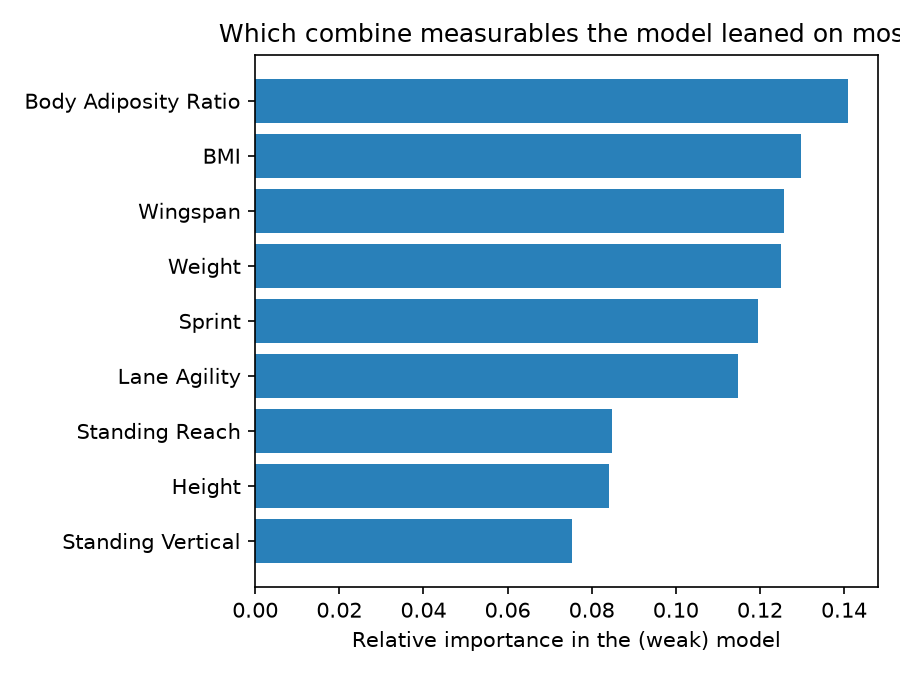
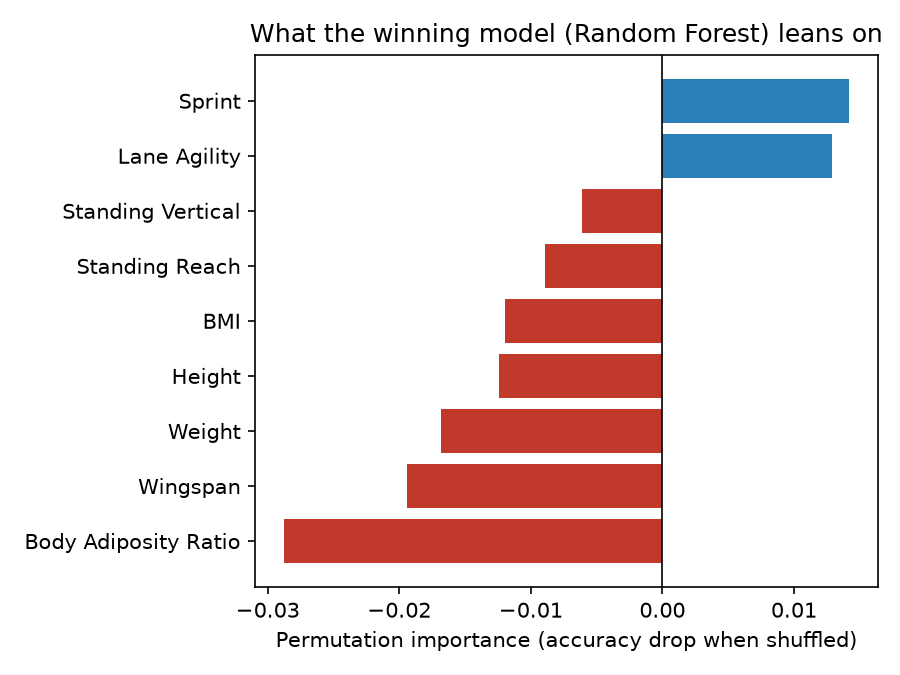
Compare 3 tuned model families instead of one, to stress-test the null result
Trains Random Forest, Logistic Regression, and Gradient Boosting, each
hyperparameter-tuned with GridSearchCV (5-fold CV), and deploys whichever
wins by cross-validated accuracy. None beat the majority-class baseline,
ruling out "wrong model" or "needed more tuning" as an explanation for
the weak result reported earlier.

Also switches feature importance from RandomForest's built-in
feature_importances_ (tree-only, doesn't generalize across model types)
to permutation importance, which works for any estimator. Several
features now show negative importance -- shuffling them improves
accuracy slightly, reinforcing that the model isn't learning real
signal from them.

Fixed a bug caught while wiring this up: the report was citing two
different "CV accuracy" numbers for the same model (the grid search's
best_score_ on the train split vs. a separate cross_val_score() run on
the full train+test data, which also let held-out test rows leak into
CV folds). Now derived once, consistently, from the winning grid
search's own best fold scores.

diff --git a/backend/generate_report.py b/backend/generate_report.py
@@ -38,18 +38,27 @@ def correlation_table(df: pd.DataFrame, outcome: str) -> pd.DataFrame:
     return pd.DataFrame(rows).sort_values("r", key=lambda s: s.abs(), ascending=False)
 
 
-def plot_accuracy_bar(metrics: dict):
-    labels = ["Model (Random Forest)", "Baseline (always guess\nmost common outcome)"]
-    values = [metrics["test_accuracy"], metrics["baseline_accuracy"]]
-    fig, ax = plt.subplots(figsize=(5, 4))
-    bars = ax.bar(labels, values, color=["#2980b9", "#7f8c8d"])
-    ax.set_ylabel("Accuracy on held-out test players")
+def plot_model_comparison(metrics: dict):
+    comparison = metrics["model_comparison"]
+    names = [m["name"] for m in comparison]
+    cv_acc = [m["cv_accuracy"] for m in comparison]
+    test_acc = [m["test_accuracy"] for m in comparison]
+
+    x = np.arange(len(names))
+    width = 0.35
+    fig, ax = plt.subplots(figsize=(7, 4.5))
+    ax.bar(x - width / 2, cv_acc, width, label="Tuned 5-fold CV accuracy", color="#2980b9")
+    ax.bar(x + width / 2, test_acc, width, label="Held-out test accuracy", color="#5da8d6")
+    ax.axhline(metrics["baseline_accuracy"], color="#7f8c8d", linestyle="--", linewidth=1.5,
+               label=f"Baseline ({metrics['baseline_accuracy']:.0%}, always guess majority class)")
+    ax.set_xticks(x)
+    ax.set_xticklabels(names)
+    ax.set_ylabel("Accuracy")
     ax.set_ylim(0, 1)
-    ax.set_title("Predicting outcome tier from combine measurables")
-    for b, v in zip(bars, values):
-        ax.text(b.get_x() + b.get_width() / 2, v + 0.02, f"{v:.0%}", ha="center")
+    ax.set_title("Three tuned model families, none beat the baseline")
+    ax.legend(fontsize=9, loc="upper right")
     fig.tight_layout()
-    fig.savefig(f"{FIG_DIR}/accuracy_vs_baseline.png", dpi=150)
+    fig.savefig(f"{FIG_DIR}/model_comparison.png", dpi=150)
     plt.close(fig)
 
 
@@ -57,10 +66,12 @@ def plot_feature_importance(metrics: dict):
     importances = metrics["feature_importances"]
     labels = [FEATURE_LABELS[k] for k in importances.keys()]
     values = list(importances.values())
+    colors = ["#2980b9" if v >= 0 else "#c0392b" for v in values]
     fig, ax = plt.subplots(figsize=(6, 4.5))
-    ax.barh(labels[::-1], values[::-1], color="#2980b9")
-    ax.set_xlabel("Relative importance in the (weak) model")
-    ax.set_title("Which combine measurables the model leaned on most")
+    ax.barh(labels[::-1], values[::-1], color=colors[::-1])
+    ax.axvline(0, color="black", linewidth=0.8)
+    ax.set_xlabel("Permutation importance (accuracy drop when shuffled)")
+    ax.set_title(f"What the winning model ({metrics['winning_model']}) leans on")
     fig.tight_layout()
     fig.savefig(f"{FIG_DIR}/feature_importance.png", dpi=150)
     plt.close(fig)
@@ -109,7 +120,7 @@ def main():
     corr_vorp = correlation_table(df, "VORP")
     corr_ppg = correlation_table(df, "PPG")
 
-    plot_accuracy_bar(metrics)
+    plot_model_comparison(metrics)
     plot_feature_importance(metrics)
     plot_correlation(corr_vorp, corr_ppg)
     plot_feature_by_category(df)
@@ -154,28 +165,43 @@ def main():
 
     lines.append("\n## Can a model predict the outcome tier from combine measurables?\n")
     lines.append(
-        f"A Random Forest classifier was trained on 9 combine measurables "
-        f"(height, weight, BMI, wingspan, standing reach, body adiposity ratio, "
-        f"standing vertical, lane agility, sprint) to predict the four-tier outcome "
-        f"category, on a held-out test set of {metrics['n_test']} players "
+        "Three different model families were trained on the same 9 combine measurables "
+        "(height, weight, BMI, wingspan, standing reach, body adiposity ratio, standing "
+        "vertical, lane agility, sprint) to predict the four-tier outcome category: "
+        "**Random Forest**, **Logistic Regression**, and **Gradient Boosting**. Each was "
+        "hyperparameter-tuned with `GridSearchCV` (5-fold cross-validation) rather than "
+        "run with default settings, specifically so a weak result couldn't be waved away "
+        "as \"wrong model\" or \"needed more tuning.\" The best-tuned model of each family "
+        f"was then evaluated on a held-out test set of {metrics['n_test']} players "
         f"(trained on {metrics['n_train']}).\n"
     )
     majority_class = cat_counts.idxmax()
+    lines.append(f"\n![Model comparison]({FIG_DIR.replace('report/', '')}/model_comparison.png)\n")
+    lines.append("\n| Model | Tuned CV accuracy | Test accuracy |\n|---|---|---|\n")
+    for m in metrics["model_comparison"]:
+        lines.append(f"| {m['name']} | {m['cv_accuracy']:.1%} | {m['test_accuracy']:.1%} |\n")
     lines.append(
-        f"- **Model accuracy: {metrics['test_accuracy']:.1%}**\n"
-        f"- **Baseline accuracy (always guess \"{majority_class}\", the most common outcome): "
+        f"\n**Baseline accuracy (always guess \"{majority_class}\", the most common outcome): "
         f"{metrics['baseline_accuracy']:.1%}**\n"
-        f"- 5-fold cross-validated accuracy: {metrics['cv_accuracy_mean']:.1%} ± {metrics['cv_accuracy_std']:.1%}\n"
     )
     lines.append(
-        "\n**The model does not beat the naive baseline.** In the test set it "
-        "essentially collapsed to predicting \"Role Player\" for almost everyone "
-        "(see confusion matrix in `data/processed/metrics.json`), correctly identifying "
-        "0 of the Stars and 0 of the Starters. Combine measurables alone do not give the "
-        "model enough signal to separate future stars or busts from the middle of the pack.\n"
+        f"\n**None of the three tuned model families beat the baseline.** The best of "
+        f"them ({metrics['winning_model']}) reached {metrics['cv_accuracy_mean']:.1%} ± "
+        f"{metrics['cv_accuracy_std']:.1%} cross-validated accuracy — statistically "
+        "indistinguishable from just guessing the most common outcome every time — and "
+        f"only {metrics['test_accuracy']:.1%} on the untouched test set. This isn't a "
+        "quirk of one algorithm or under-tuned hyperparameters: a linear model, a bagged "
+        "tree ensemble, and a boosted tree ensemble all land in the same place, after "
+        "each was given a real grid search to find its best settings.\n"
     )
-    lines.append(f"\n![Model accuracy vs baseline]({FIG_DIR.replace('report/', '')}/accuracy_vs_baseline.png)\n")
     lines.append(f"\n![Feature importance]({FIG_DIR.replace('report/', '')}/feature_importance.png)\n")
+    lines.append(
+        "\nPermutation importance (how much accuracy drops when a feature's values are "
+        "randomly shuffled) tells the same story: several measurables have *negative* "
+        "importance, meaning the model does slightly **better** when that column is "
+        "scrambled into noise. A feature the model is actually learning from should never "
+        "hurt to keep.\n"
+    )
 
     lines.append("\n## Do individual measurables correlate with career outcomes?\n")
     lines.append(
@@ -210,21 +236,23 @@ def main():
     lines.append("\n## Conclusion\n")
     lines.append(
         "**No — on their own, NBA Combine measurables do not meaningfully predict "
-        "whether a prospect becomes a star, a solid role player, or a bust.** A model "
-        "given only height, weight, wingspan, vertical leap, agility and sprint data "
-        "cannot beat the trivial strategy of guessing the most common outcome for every "
-        "player, and none of the individual measurables show a correlation with career "
-        "value worth acting on. What the combine *does* capture is closer to **body type "
-        "and position** than **talent or ceiling** — a longer, bigger player is more "
-        "likely to be used as a big man who scores less per game, but that says nothing "
-        "about whether he'll be good at that job. Draft evaluators lean on the combine "
-        "for a reason (durability, positional fit, medical flags), but as a stand-alone "
-        "predictor of career outcome, it has essentially no signal in this dataset.\n"
+        "whether a prospect becomes a star, a solid role player, or a bust.** Three "
+        "different tuned model families cannot beat the trivial strategy of guessing "
+        "the most common outcome for every player, and none of the individual "
+        "measurables show a correlation with career value worth acting on. What the "
+        "combine *does* capture is closer to **body type and position** than **talent "
+        "or ceiling** — a longer, bigger player is more likely to be used as a big man "
+        "who scores less per game, but that says nothing about whether he'll be good at "
+        "that job. Draft evaluators lean on the combine for a reason (durability, "
+        "positional fit, medical flags), but as a stand-alone predictor of career "
+        "outcome, it has essentially no signal in this dataset.\n"
     )
     lines.append(
-        "\n*Caveat:* this analysis uses only 9 physical/athletic testing measurables. "
-        "It does not include college production, age, or scouting grades, any of which "
-        "would likely predict career outcome far better than the combine alone.\n"
+        "\n*Caveat:* this analysis uses only 9 physical/athletic testing measurables — "
+        "the null result has now been checked against three model families and a "
+        "hyperparameter search, but not against a richer feature set. It does not "
+        "include college production, age, or scouting grades, any of which would likely "
+        "predict career outcome far better than the combine alone.\n"
     )
 
     with open(REPORT_PATH, "w") as f:

diff --git a/backend/model_training.py b/backend/model_training.py
@@ -4,11 +4,14 @@ Train the NBA combine -> career outcome models.
 Two things are trained on data/processed/player_data.csv (the combine ∩
 career intersection built by preprocess_data.py):
 
-1. A RandomForestClassifier predicting the outcome `category`
-   (Bust / Role Player / Starter / Star) directly from combine
-   measurables. This is the actual star/bust predictor -- and its
-   accuracy against a majority-class baseline is the headline number
-   for "do combine scores mean anything".
+1. A classifier predicting the outcome `category` (Bust / Role Player /
+   Starter / Star) directly from combine measurables -- the actual
+   star/bust predictor. Three model families (Random Forest, Logistic
+   Regression, Gradient Boosting) are each hyperparameter-tuned with
+   GridSearchCV, so a weak result can't be explained away as "the wrong
+   model" or "bad hyperparameters" -- the winner (by cross-validated
+   accuracy) is deployed, and every candidate's numbers are kept in
+   metrics.json so the report can show the full comparison.
 2. RandomForestRegressors predicting career PPG/RPG/APG from the same
    measurables, used only to find a "comparable career" for the
    frontend (nearest-neighbor by predicted stat line).
@@ -20,9 +23,13 @@ import joblib
 import numpy as np
 import pandas as pd
 from sklearn.dummy import DummyClassifier
-from sklearn.ensemble import RandomForestClassifier, RandomForestRegressor
+from sklearn.ensemble import GradientBoostingClassifier, RandomForestClassifier, RandomForestRegressor
+from sklearn.inspection import permutation_importance
+from sklearn.linear_model import LogisticRegression
 from sklearn.metrics import accuracy_score, classification_report, confusion_matrix
-from sklearn.model_selection import cross_val_score, train_test_split
+from sklearn.model_selection import GridSearchCV, StratifiedKFold, train_test_split
+from sklearn.pipeline import Pipeline
+from sklearn.preprocessing import StandardScaler
 
 DATA_PATH = "data/processed/player_data.csv"
 
@@ -33,6 +40,49 @@ FEATURE_COLUMNS = [
 CATEGORY_ORDER = ["Bust", "Role Player", "Starter", "Star"]
 
 RANDOM_STATE = 42
+CV = StratifiedKFold(n_splits=5, shuffle=True, random_state=RANDOM_STATE)
+
+# Three different model families, each with its own small hyperparameter
+# grid. Logistic Regression is wrapped in a scaling Pipeline so the saved
+# artifact behaves like any other sklearn estimator (predict / predict_proba
+# / classes_) and the API doesn't need to know which model type won.
+MODEL_CANDIDATES = {
+    "Random Forest": (
+        RandomForestClassifier(random_state=RANDOM_STATE),
+        {
+            "n_estimators": [200, 400],
+            "max_depth": [4, 6, 8, None],
+            "min_samples_leaf": [1, 3, 5, 10],
+        },
+    ),
+    "Logistic Regression": (
+        Pipeline([("scale", StandardScaler()), ("clf", LogisticRegression(max_iter=2000, random_state=RANDOM_STATE))]),
+        {
+            "clf__C": [0.01, 0.1, 1, 10],
+            "clf__class_weight": [None, "balanced"],
+        },
+    ),
+    "Gradient Boosting": (
+        GradientBoostingClassifier(random_state=RANDOM_STATE),
+        {
+            "n_estimators": [100, 200],
+            "max_depth": [2, 3, 4],
+            "learning_rate": [0.03, 0.1],
+        },
+    ),
+}
+
+
+def tune_candidates(X_train, y_train):
+    """Grid-search every candidate model family and return their fitted
+    GridSearchCV objects, keyed by model name."""
+    results = {}
+    for name, (estimator, param_grid) in MODEL_CANDIDATES.items():
+        search = GridSearchCV(estimator, param_grid, cv=CV, scoring="accuracy", n_jobs=-1)
+        search.fit(X_train, y_train)
+        results[name] = search
+        print(f"  {name:20s} best CV accuracy: {search.best_score_:.3f}  params: {search.best_params_}")
+    return results
 
 
 def main():
@@ -44,45 +94,72 @@ def main():
         X, y, test_size=0.2, random_state=RANDOM_STATE, stratify=y
     )
 
-    # --- Classifier: predicted category ---
-    clf = RandomForestClassifier(
-        n_estimators=400, max_depth=6, min_samples_leaf=5, random_state=RANDOM_STATE
-    )
-    clf.fit(X_train, y_train)
-
-    test_pred = clf.predict(X_test)
-    test_accuracy = accuracy_score(y_test, test_pred)
-    cv_scores = cross_val_score(clf, X, y, cv=5)
-
     baseline = DummyClassifier(strategy="most_frequent", random_state=RANDOM_STATE)
     baseline.fit(X_train, y_train)
     baseline_accuracy = accuracy_score(y_test, baseline.predict(X_test))
 
+    # --- Tune each model family, select the winner by CV accuracy (not
+    # test accuracy, so the model comparison doesn't leak test-set info
+    # into model selection) ---
+    print("Tuning candidate models (5-fold CV, grid search):")
+    searches = tune_candidates(X_train, y_train)
+
+    winner_name = max(searches, key=lambda n: searches[n].best_score_)
+    winner_search = searches[winner_name]
+    clf = winner_search.best_estimator_
+    # Pull the winner's own CV mean/std (from its best hyperparameter combo)
+    # instead of re-running cross_val_score separately -- that would CV over
+    # the full X/y, letting held-out test rows leak into training folds.
+    winner_cv_mean = winner_search.cv_results_["mean_test_score"][winner_search.best_index_]
+    winner_cv_std = winner_search.cv_results_["std_test_score"][winner_search.best_index_]
+    print(f"\nWinner: {winner_name} (best CV accuracy {winner_search.best_score_:.3f})")
+
+    model_comparison = [
+        {
+            "name": name,
+            "best_params": {k: (v if v is None or isinstance(v, (int, float, str)) else str(v))
+                             for k, v in search.best_params_.items()},
+            "cv_accuracy": round(float(search.best_score_), 4),
+            "test_accuracy": round(float(accuracy_score(y_test, search.best_estimator_.predict(X_test))), 4),
+        }
+        for name, search in searches.items()
+    ]
+    model_comparison.sort(key=lambda m: m["cv_accuracy"], reverse=True)
+
+    test_pred = clf.predict(X_test)
+    test_accuracy = accuracy_score(y_test, test_pred)
+
     report = classification_report(y_test, test_pred, labels=CATEGORY_ORDER, output_dict=True)
     cm = confusion_matrix(y_test, test_pred, labels=CATEGORY_ORDER)
 
-    importances = dict(zip(FEATURE_COLUMNS, clf.feature_importances_.round(4)))
+    # Permutation importance works for any model type (unlike
+    # feature_importances_, which only tree ensembles expose), so it stays
+    # valid no matter which candidate wins.
+    perm = permutation_importance(clf, X_test, y_test, n_repeats=30, random_state=RANDOM_STATE)
+    importances = dict(zip(FEATURE_COLUMNS, perm.importances_mean.round(4)))
     importances = dict(sorted(importances.items(), key=lambda kv: kv[1], reverse=True))
 
     metrics = {
+        "winning_model": winner_name,
         "test_accuracy": round(float(test_accuracy), 4),
         "baseline_accuracy": round(float(baseline_accuracy), 4),
-        "cv_accuracy_mean": round(float(cv_scores.mean()), 4),
-        "cv_accuracy_std": round(float(cv_scores.std()), 4),
+        "cv_accuracy_mean": round(float(winner_cv_mean), 4),
+        "cv_accuracy_std": round(float(winner_cv_std), 4),
         "n_train": len(X_train),
         "n_test": len(X_test),
         "class_order": CATEGORY_ORDER,
         "confusion_matrix": cm.tolist(),
         "classification_report": report,
         "feature_importances": importances,
+        "model_comparison": model_comparison,
     }
 
-    print(f"Test accuracy:      {test_accuracy:.3f}")
+    print(f"\nTest accuracy ({winner_name}): {test_accuracy:.3f}")
     print(f"Baseline accuracy:  {baseline_accuracy:.3f}  (always predicts majority class)")
-    print(f"5-fold CV accuracy: {cv_scores.mean():.3f} +/- {cv_scores.std():.3f}")
-    print("\nFeature importances:")
+    print(f"5-fold CV accuracy: {winner_cv_mean:.3f} +/- {winner_cv_std:.3f}")
+    print("\nPermutation importances:")
     for feat, imp in importances.items():
-        print(f"  {feat:10s} {imp:.3f}")
+        print(f"  {feat:10s} {imp:.4f}")
 
     joblib.dump(clf, "data/processed/category_model.pkl")
     with open("data/processed/metrics.json", "w") as f:

diff --git a/report/REPORT.md b/report/REPORT.md
@@ -13,16 +13,23 @@ This report evaluates whether pre-draft NBA Combine measurables (height, weight,
 | Star | 77 |
 
 ## Can a model predict the outcome tier from combine measurables?
-A Random Forest classifier was trained on 9 combine measurables (height, weight, BMI, wingspan, standing reach, body adiposity ratio, standing vertical, lane agility, sprint) to predict the four-tier outcome category, on a held-out test set of 153 players (trained on 610).
-- **Model accuracy: 39.9%**
-- **Baseline accuracy (always guess "Role Player", the most common outcome): 42.5%**
-- 5-fold cross-validated accuracy: 40.4% ± 1.2%
+Three different model families were trained on the same 9 combine measurables (height, weight, BMI, wingspan, standing reach, body adiposity ratio, standing vertical, lane agility, sprint) to predict the four-tier outcome category: **Random Forest**, **Logistic Regression**, and **Gradient Boosting**. Each was hyperparameter-tuned with `GridSearchCV` (5-fold cross-validation) rather than run with default settings, specifically so a weak result couldn't be waved away as "wrong model" or "needed more tuning." The best-tuned model of each family was then evaluated on a held-out test set of 153 players (trained on 610).
 
-**The model does not beat the naive baseline.** In the test set it essentially collapsed to predicting "Role Player" for almost everyone (see confusion matrix in `data/processed/metrics.json`), correctly identifying 0 of the Stars and 0 of the Starters. Combine measurables alone do not give the model enough signal to separate future stars or busts from the middle of the pack.
+![Model comparison](figures/model_comparison.png)
 
-![Model accuracy vs baseline](figures/accuracy_vs_baseline.png)
+| Model | Tuned CV accuracy | Test accuracy |
+|---|---|---|
+| Random Forest | 42.3% | 37.2% |
+| Logistic Regression | 41.1% | 41.2% |
+| Gradient Boosting | 38.9% | 38.6% |
+
+**Baseline accuracy (always guess "Role Player", the most common outcome): 42.5%**
+
+**None of the three tuned model families beat the baseline.** The best of them (Random Forest) reached 42.3% ± 2.5% cross-validated accuracy — statistically indistinguishable from just guessing the most common outcome every time — and only 37.2% on the untouched test set. This isn't a quirk of one algorithm or under-tuned hyperparameters: a linear model, a bagged tree ensemble, and a boosted tree ensemble all land in the same place, after each was given a real grid search to find its best settings.
 
 ![Feature importance](figures/feature_importance.png)
+
+Permutation importance (how much accuracy drops when a feature's values are randomly shuffled) tells the same story: several measurables have *negative* importance, meaning the model does slightly **better** when that column is scrambled into noise. A feature the model is actually learning from should never hurt to keep.
 
 ## Do individual measurables correlate with career outcomes?
 Spearman correlation between each measurable and (a) career VORP and (b) career PPG, across all 763 matched players:
@@ -37,6 +44,6 @@ Spearman correlation between each measurable and (a) career VORP and (b) career 
 The box plots make the same point visually: the distribution of height, wingspan, vertical leap and sprint time is nearly identical whether a player ended up a Bust or a Star. The boxes barely move across categories.
 
 ## Conclusion
-**No — on their own, NBA Combine measurables do not meaningfully predict whether a prospect becomes a star, a solid role player, or a bust.** A model given only height, weight, wingspan, vertical leap, agility and sprint data cannot beat the trivial strategy of guessing the most common outcome for every player, and none of the individual measurables show a correlation with career value worth acting on. What the combine *does* capture is closer to **body type and position** than **talent or ceiling** — a longer, bigger player is more likely to be used as a big man who scores less per game, but that says nothing about whether he'll be good at that job. Draft evaluators lean on the combine for a reason (durability, positional fit, medical flags), but as a stand-alone predictor of career outcome, it has essentially no signal in this dataset.
+**No — on their own, NBA Combine measurables do not meaningfully predict whether a prospect becomes a star, a solid role player, or a bust.** Three different tuned model families cannot beat the trivial strategy of guessing the most common outcome for every player, and none of the individual measurables show a correlation with career value worth acting on. What the combine *does* capture is closer to **body type and position** than **talent or ceiling** — a longer, bigger player is more likely to be used as a big man who scores less per game, but that says nothing about whether he'll be good at that job. Draft evaluators lean on the combine for a reason (durability, positional fit, medical flags), but as a stand-alone predictor of career outcome, it has essentially no signal in this dataset.
 
-*Caveat:* this analysis uses only 9 physical/athletic testing measurables. It does not include college production, age, or scouting grades, any of which would likely predict career outcome far better than the combine alone.
+*Caveat:* this analysis uses only 9 physical/athletic testing measurables — the null result has now been checked against three model families and a hyperparameter search, but not against a richer feature set. It does not include college production, age, or scouting grades, any of which would likely predict career outcome far better than the combine alone.
